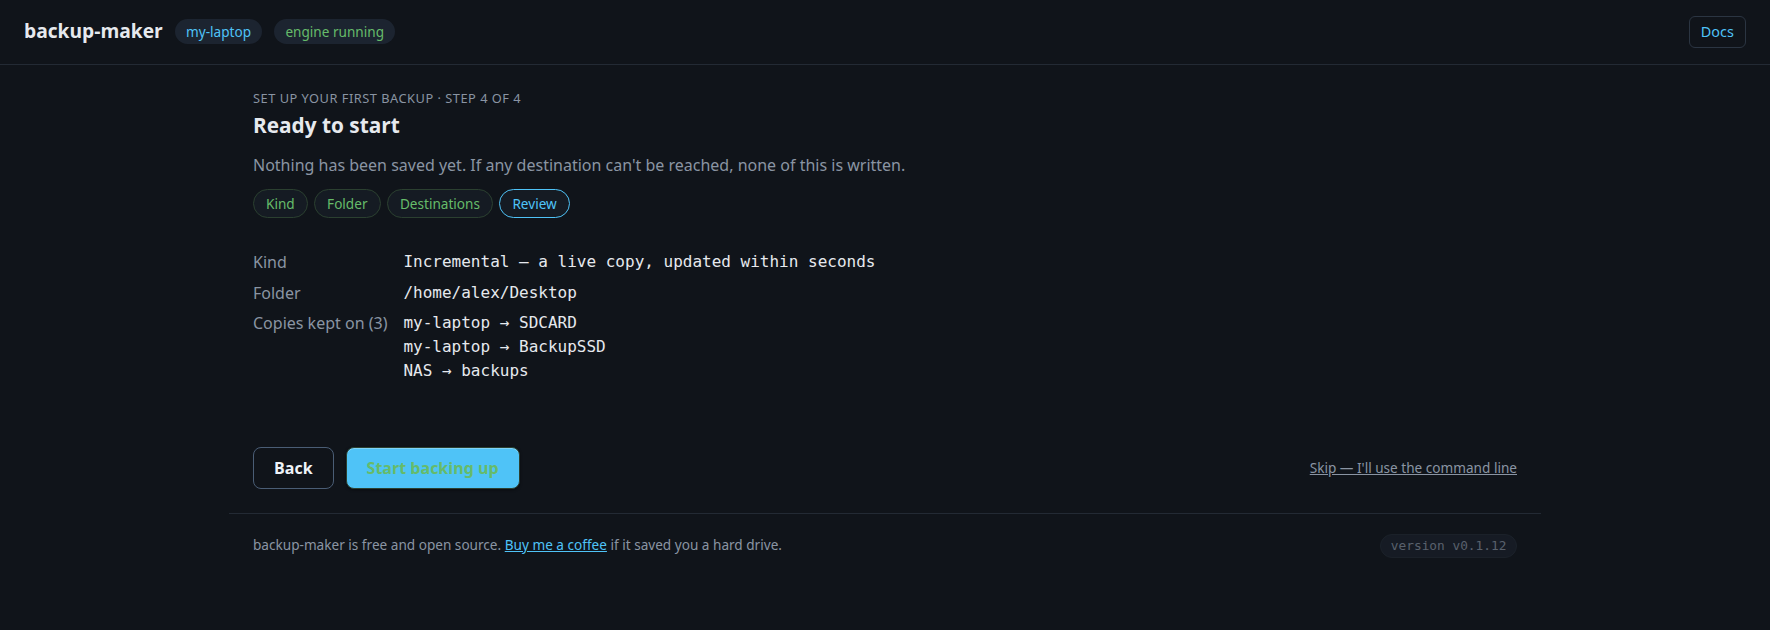
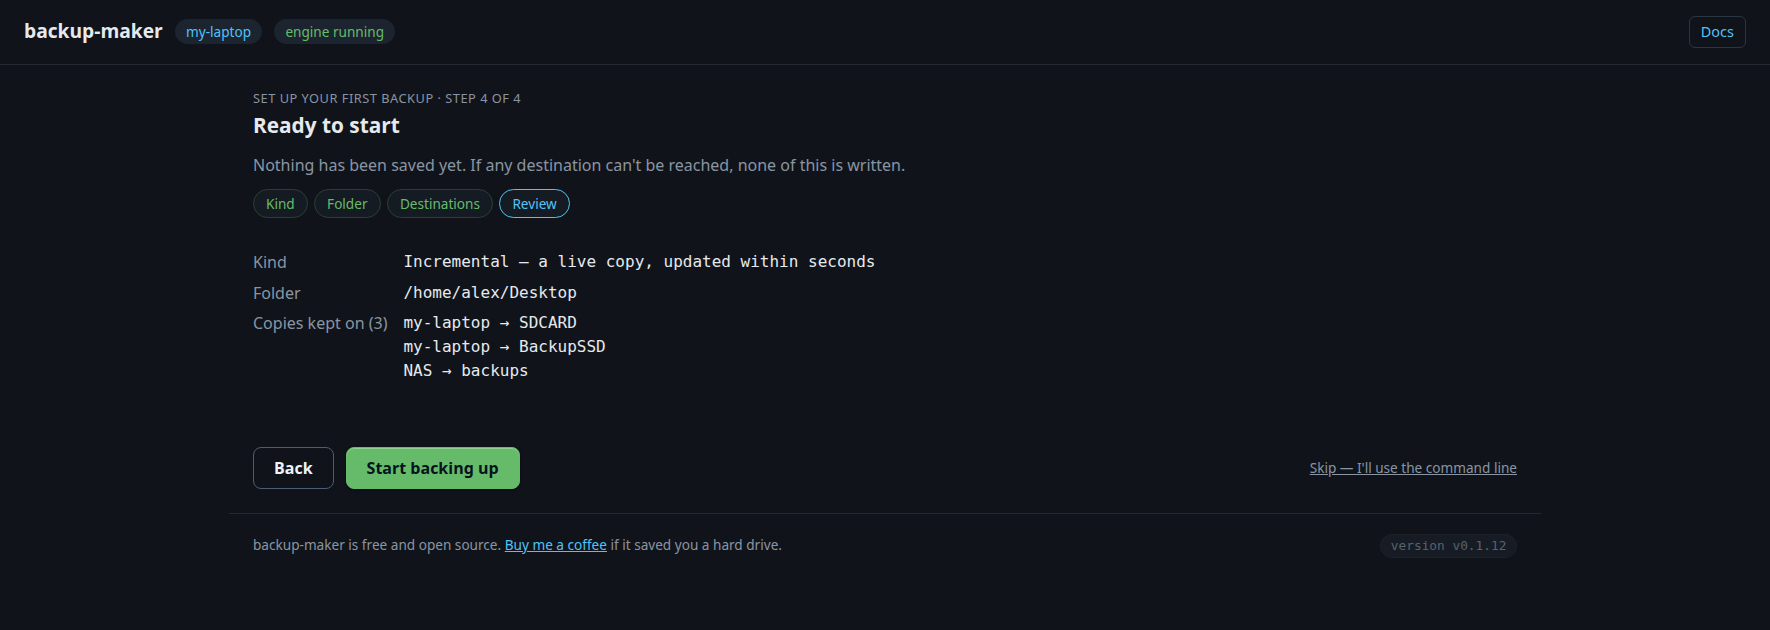
Make the wizard's own button readable, and stop the page showing what it deleted
"Start backing up" was green text on a blue fill — a contrast ratio of
1.18:1 on the last step of the wizard, and in the README's tour of it. An id
rule set the text green back when the button had no fill; it was later given
class="primary", which fills it accent blue, and an id beats a class. It is
the green button now, with the same dark ink .primary uses.

The screenshot harness refused to catch it, which is the more useful half of
this. Its guard tested whether text was EXACTLY the colour behind it, and
green is not blue, so it published the shot. It measures contrast now — the
WCAG ratio, refusing below 3:1 — and rejects that button at 1.18:1.

Deleting a schedule left its row on the page. Everything here writes
config.toml and returns, but the daemon picks that up from a two-second file
watcher, so the refresh fired the instant the response landed could still be
answered with the old configuration. This page repaints when the daemon
publishes, so a stale answer can be the last one it ever gets: the row stays,
and pressing it again is answered "no snapshot schedule called that" because
the deletion worked the first time and the page never found out. Every
action that writes config.toml now looks again once the watcher has ticked.

The folder picker refuses to protect a folder inside one already picked. It
offers Home beside Documents and Pictures, which reads as a list of siblings
and is not one — picking both meant copying those files twice to every
[…]

Changed region(s): [[0.1864, 0.6937, 0.3107, 0.7841]]

diff --git a/internal/webui/static/app.js b/internal/webui/static/app.js
@@ -911,7 +911,29 @@ async function reportAndRefresh(resp) {
   } catch { said = (await resp.text()).trim(); }
   if (!resp.ok) alert(said || 'That did not work.');
   else if (said) alert(said);
+  refreshAfterConfigChange();
+}
+
+// A CHANGE TO config.toml IS NOT VISIBLE THE INSTANT THE REQUEST RETURNS.
+//
+// Everything here writes config.toml and returns; the daemon picks the change
+// up from a 2-second file watcher (watchConfigFile), and /api/status is built
+// from what the daemon currently holds. So the refresh fired the moment the
+// response lands can still be answered with the OLD configuration — the deleted
+// schedule still listed, the removed destination still there.
+//
+// That alone would be a flicker, except this page is EVENT-DRIVEN: it repaints
+// when the daemon publishes, and the daemon publishes when something changed.
+// If the stale answer is the last one the page ever receives, the row stays on
+// screen indefinitely — and pressing its button again is answered "no snapshot
+// schedule called that", because the daemon deleted it the first time and the
+// page never found out.
+//
+// So: ask again after the watcher has certainly ticked. Cheap, bounded, and it
+// fixes the whole family rather than the one action somebody noticed.
+function refreshAfterConfigChange() {
   refresh();
+  setTimeout(refresh, 2600);
 }
 
 // Inline editor for one folder's excludes. Comma-separated, matching the
@@ -1178,7 +1200,7 @@ async function removeFolder(f) {
     `It moves to "No longer protected" below, where you can turn it back on or delete its backups later.\n\n` +
     `Nothing is deleted now — the copies already on your destinations are left exactly where they are.`)) return;
   const resp = await mutate('/api/folders/' + encodeURIComponent(f.id), { method: 'DELETE' });
-  if (!resp.ok) alert(await resp.text()); else refresh();
+  if (!resp.ok) alert(await resp.text()); else refreshAfterConfigChange();
 }
 
 // openTargetEditor edits a destination's identity: what it is called, and which
@@ -1345,6 +1367,27 @@ async function loadDestDir(t, path, ui) {
   renderDestCrumbs(t, data.path || '', ui);
 
   const entries = data.entries || [];
+
+  // A LEVEL THAT OFFERS NO CHOICE IS NOT WORTH A CLICK. Every root on a
+  // destination is organised by machine, so on a drive only this computer backs
+  // up to, both stores hold exactly one directory and it is always called the
+  // same thing:
+  //
+  //     .backup-maker-versions  ->  my-laptop  ->  Development
+  //     backup-maker-archives   ->  my-laptop  ->  pk-probook-desktop
+  //     my-laptop               ->  Development
+  //
+  // which makes all three top-level rows appear to lead to the same place, and
+  // buries the snapshots three clicks down. Where a machine directory is the
+  // only thing in a root, step through it. Nothing is hidden: the breadcrumb
+  // still shows the full path, and a destination shared by two computers has two
+  // entries here and stops. Guarded on the path growing, so a backend that
+  // somehow answered with itself cannot spin.
+  if (entries.length === 1 && entries[0].dir && entries[0].kind === 'machine' &&
+      entries[0].rel && entries[0].rel.length > (data.path || '').length) {
+    return loadDestDir(t, entries[0].rel, ui);
+  }
+
   ui.list.replaceChildren();
   if (entries.length === 0) {
     ui.list.appendChild(el('li', 'muted', 'Nothing here.'));
@@ -1421,7 +1464,7 @@ async function deleteDestPath(t, e, ui) {
 async function removeTarget(t) {
   if (!confirm(`Stop backing up to ${t.name}?\n\nThe backups already on it are left exactly where they are — this only stops future copying.`)) return;
   const resp = await mutate('/api/targets/' + encodeURIComponent(t.name), { method: 'DELETE' });
-  if (!resp.ok) alert(await resp.text()); else refresh();
+  if (!resp.ok) alert(await resp.text()); else refreshAfterConfigChange();
 }
 
 function renderArchives(st) {
@@ -2989,7 +3032,7 @@ async function setArchivePaused(a, paused) {
     headers: { 'Content-Type': 'application/json' },
     body: JSON.stringify({ paused }),
   });
-  if (!resp.ok) alert(await resp.text()); else refresh();
+  if (!resp.ok) alert(await resp.text()); else refreshAfterConfigChange();
 }
 
 // Changing how often it runs and how many are kept. Deliberately does NOT

diff --git a/internal/webui/static/wizard.js b/internal/webui/static/wizard.js
@@ -98,6 +98,7 @@ const Wizard = (() => {
     firstRun = !!(opts && opts.firstRun);
     index = 0;
     picked.clear();
+    showPickNote('');
     chosen.clear();
     const inc = document.querySelector('input[name="mode"][value="incremental"]');
     if (inc) inc.checked = true;
@@ -287,6 +288,7 @@ const Wizard = (() => {
   function toggleFolder(path) {
     if (isPicked(path)) {
       picked.delete(trimSlash(path));
+      showPickNote('');
       renderChosenFolder();
       return;
     }
@@ -344,9 +346,56 @@ const Wizard = (() => {
   // Resolving the path to the folder that already owns it makes the refusal
   // unreachable from here: the request becomes "add a kind of backup to this
   // folder", which is what was meant.
+  // NOTHING MAY BE PICKED INSIDE SOMETHING ELSE THAT IS PICKED.
+  //
+  // The picker offers Home beside Documents, Pictures and the rest, which reads
+  // as a list of siblings and is not one: Home is their parent. Picking both
+  // used to be allowed, and meant copying those files twice — once as
+  // themselves and once inside Home — to every destination, for ever, with two
+  // rows on the dashboard both claiming to protect them and a snapshot holding
+  // two copies of each file.
+  //
+  // Picking a parent SWALLOWS the children already chosen, because that is
+  // plainly what was meant. Picking a child of something already chosen is
+  // refused instead of silently ignored: the folder is already protected, and
+  // saying so is more use than appearing to add it.
   function chooseFolder(path, folderID) {
-    picked.set(trimSlash(path), { path, id: folderID || folderIDForPath(path) });
+    const want = trimSlash(path);
+    for (const { path: have } of picked.values()) {
+      if (contains(trimSlash(have), want)) {
+        showPickNote(`${want} is already inside ${trimSlash(have)}, which you have picked. ` +
+          `Everything in it is backed up already.`);
+        return;
+      }
+    }
+    const swallowed = [];
+    for (const [key, f] of [...picked.entries()]) {
+      if (contains(want, trimSlash(f.path))) {
+        picked.delete(key);
+        swallowed.push(trimSlash(f.path));
+      }
+    }
+    picked.set(want, { path, id: folderID || folderIDForPath(path) });
+    showPickNote(swallowed.length
+      ? `${swallowed.join(' and ')} ${swallowed.length > 1 ? 'are' : 'is'} inside ${want}, ` +
+        `so ${swallowed.length > 1 ? 'they have' : 'it has'} been folded into it — nothing is left out.`
+      : '');
     renderChosenFolder();
+  }
+
+  // contains reports whether parent is an ancestor of child. Compared segment by
+  // segment rather than by prefix, so /home/alexandra is not treated as living
+  // inside /home/alex.
+  function contains(parent, child) {
+    return parent !== child && child.startsWith(parent + '/');
+  }
+
+  // One line under the picker explaining what a press just did, or nothing.
+  function showPickNote(text) {
+    const p = $('pick-note');
+    if (!p) return;
+    p.textContent = text;
+    p.hidden = !text;
   }
 
   function folderIDForPath(path) {
@@ -368,6 +417,7 @@ const Wizard = (() => {
   // wizard can be taken back; this one now can too.
   function clearChosenFolder() {
     picked.clear();
+    showPickNote('');
     renderChosenFolder();
   }
 

diff --git a/internal/webui/static/style.css b/internal/webui/static/style.css
@@ -609,7 +609,24 @@ details summary { cursor: pointer; margin-top: 0.5rem; }
 .wiz-panel h3 { font-size: 1.05rem; margin-bottom: 0.3rem; }
 .wiz-nav { display: flex; align-items: center; gap: 0.75rem; flex-wrap: wrap; }
 .wiz-nav .skip { margin-left: auto; font-size: 0.85rem; }
-#wiz-finish, #adopt-finish { color: var(--ok); border-color: #2b4030; }
+/* The button that actually starts backing up, in the green that means
+   "protected" everywhere else on this page — the one action in the wizard worth
+   telling apart from Continue.
+   IT FILLS WITH THE GREEN RATHER THAN WRITING IN IT. This rule used to set only
+   the text colour, back when the button had no fill; it was later given
+   class="primary", which fills it accent blue — and because an id beats a
+   class, the green text stayed and sat on the blue. Mid-green on mid-blue is
+   not quite invisible, so nothing caught it, and it shipped in the README's own
+   tour of the wizard. The dark ink is the same one .primary uses. */
+#wiz-finish, #adopt-finish {
+  background: var(--ok);
+  border-color: var(--ok);
+  color: #06131c;
+}
+#wiz-finish:hover, #adopt-finish:hover {
+  background: color-mix(in srgb, var(--ok) 88%, white);
+  border-color: color-mix(in srgb, var(--ok) 88%, white);
+}
 /* The folder you have chosen, with the button that lets you take it back.
    A row so the button sits beside the text rather than under it, and wraps
    under it on a narrow screen instead of overflowing. */

diff --git a/internal/webui/static/index.html b/internal/webui/static/index.html
@@ -136,6 +136,10 @@
         <input id="pick-manual" placeholder="/home/you/code" autocomplete="off">
         <button type="button" id="pick-manual-go" class="primary">Use this</button>
       </div>
+      <!-- Says what a press just did when it did something other than the
+           obvious — folded a folder into a parent, or refused one already
+           covered. Empty and hidden the rest of the time. -->
+      <p id="pick-note" class="notice subtle" hidden></p>
       <!-- A div, not a p: it holds a list of the folders picked, and a ul inside
            a p is not something a parser will keep. -->
       <div id="pick-chosen" class="chosen" hidden></div>

diff --git a/tools/screenshots/checks.py b/tools/screenshots/checks.py
@@ -26,17 +26,51 @@ save a shot that fails these, and the guards live here rather than in one of the
 # a distance as a guard that passes.
 import os
 
-# Text whose colour matches the surface behind it. Catches the whole family:
-# invisible labels, and states that lost their colour and fell back to the body's.
+# Text that cannot be read against the surface behind it.
+#
+# THIS USED TO TEST ONLY FOR AN EXACT MATCH, and an exact match is the easy half.
+# #wiz-finish — the button that starts the backup — was mid-green on mid-blue for
+# releases: an id rule set the text colour green back when the button had no
+# fill, the button was later given class="primary" which fills it accent blue,
+# and green is not equal to blue, so this guard waved it through. It shipped in
+# the README's own tour of the wizard and was found by a person squinting at it.
+#
+# Contrast ratio, then, not equality — WCAG's formula, 3:1, which is the large-
+# text threshold. Deliberately lenient: the point is to catch labels nobody can
+# read, not to hold this dashboard to AA on every muted hint.
 INVISIBLE_TEXT = """() => {
+  const lum = (c) => {
+    const [r, g, b] = c.match(/[\\d.]+/g).slice(0, 3).map(Number).map((v) => {
+      const s = v / 255;
+      return s <= 0.03928 ? s / 12.92 : Math.pow((s + 0.055) / 1.055, 2.4);
+    });
+    return 0.2126 * r + 0.7152 * g + 0.0722 * b;
+  };
+  const ratio = (a, b) => {
+    const x = lum(a), y = lum(b);
+    return (Math.max(x, y) + 0.05) / (Math.min(x, y) + 0.05);
+  };
+  // The nearest ancestor that actually paints something, since a transparent
+  // background means the text sits on whatever is behind its parent.
+  const behind = (e) => {
+    for (let n = e; n; n = n.parentElement) {
+      const bg = getComputedStyle(n).backgroundColor;
+      if (bg && bg !== 'rgba(0, 0, 0, 0)' && !bg.startsWith('rgba(0, 0, 0, 0')) return bg;
+    }
+    return 'rgb(11, 15, 20)';
+  };
   const bad = [];
   for (const e of document.querySelectorAll('button, a, input, label, td, th, span, p, h1, h2, h3')) {
     if (!e.offsetParent) continue;
-    if (!e.textContent.trim()) continue;
+    const own = [...e.childNodes].some((n) => n.nodeType === 3 && n.textContent.trim());
+    if (!own) continue; // a wrapper is judged by its own words, not its children's
     const s = getComputedStyle(e);
-    if (s.color === s.backgroundColor && s.backgroundColor !== 'rgba(0, 0, 0, 0)') {
+    const bg = behind(e);
+    const r = ratio(s.color, bg);
+    if (r < 3) {
       bad.push((e.id ? '#' + e.id : e.tagName) +
-               ' "' + e.textContent.trim().slice(0, 40) + '" ' + s.color);
+               ' "' + e.textContent.trim().slice(0, 40) + '" ' +
+               s.color + ' on ' + bg + ' = ' + r.toFixed(2) + ':1');
     }
   }
   return bad;
@@ -47,9 +81,10 @@ def no_invisible_text(page, out):
     found = page.evaluate(INVISIBLE_TEXT)
     if found:
         raise SystemExit(
-            f"{out}: text is the same colour as what is behind it: {found}. "
+            f"{out}: text cannot be read against what is behind it: {found}. "
             "Refusing to publish a shot with an unreadable label — this is the "
-            "failure mode that shipped twice already.")
+            "failure mode that shipped three times already, most recently the "
+            "wizard's own \"Start backing up\" button in green on blue.")
 
 
 def nothing_local_leaked(page, out, repo):
